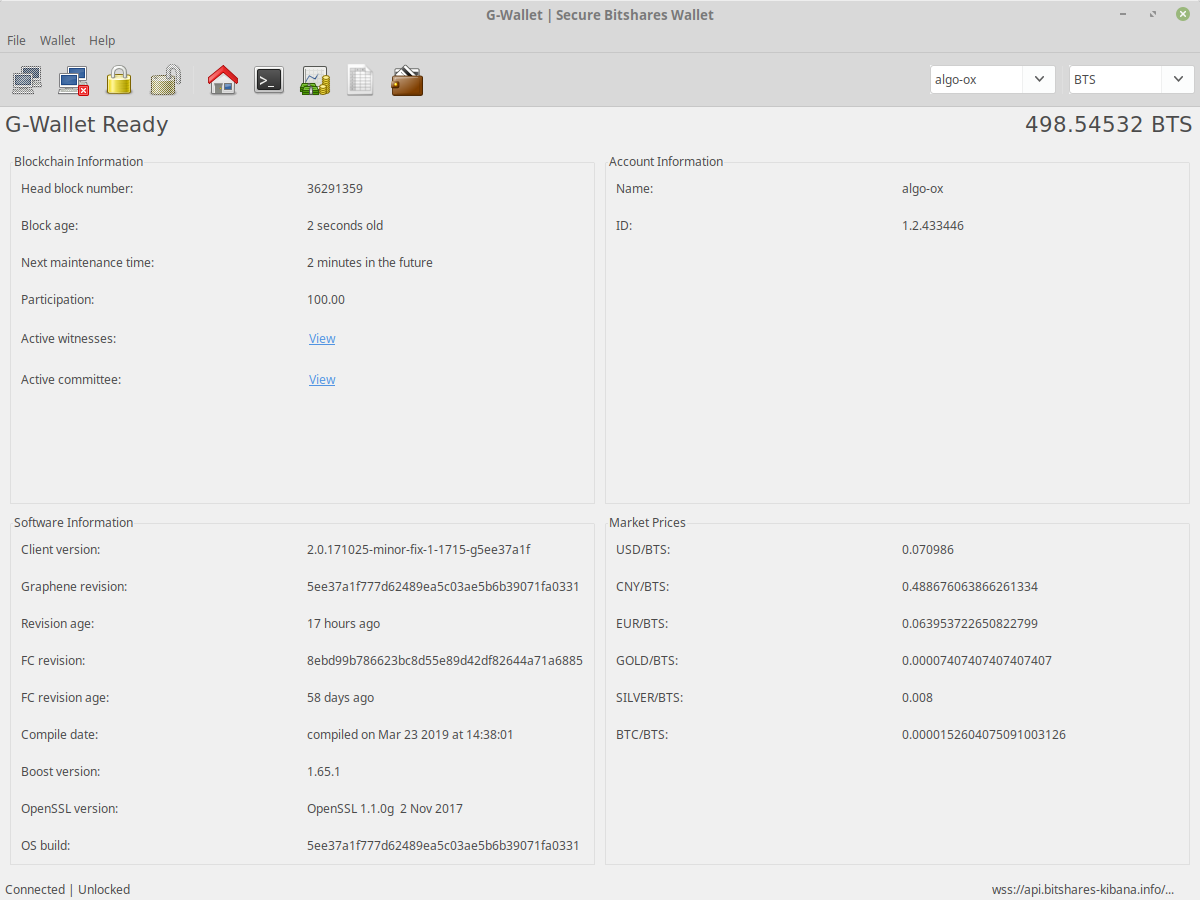
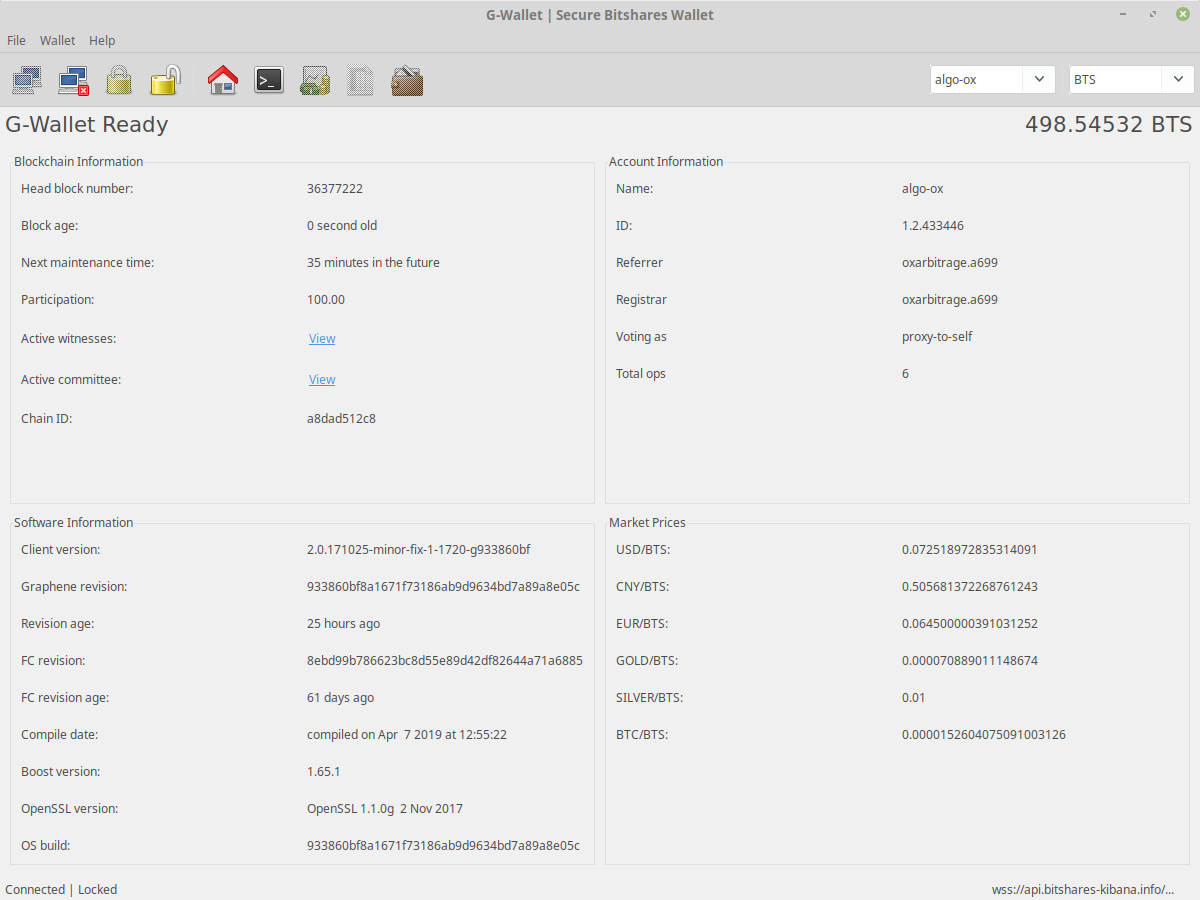
add more stats to home mode

diff --git a/programs/gwallet/modes/home.cpp b/programs/gwallet/modes/home.cpp
@@ -87,6 +87,17 @@ void Home::CreateControls()
          _("View"), wxEmptyString, wxDefaultPosition, wxDefaultSize, wxHL_ALIGN_LEFT );
    itemBoxSizer14->Add(itemHyperlinkCtrl16, 6, wxALIGN_CENTER_VERTICAL|wxALL, 0);
 
+   wxBoxSizer* itemBoxSizer9 = new wxBoxSizer(wxHORIZONTAL);
+   itemStaticBoxSizer3->Add(itemBoxSizer9, 0, wxGROW|wxALL, 5);
+
+   wxStaticText* itemStaticText26 = new wxStaticText( itemStaticBoxSizer3->GetStaticBox(), wxID_STATIC,
+         _("Chain ID:"), wxDefaultPosition, wxDefaultSize, 0 );
+   itemBoxSizer9->Add(itemStaticText26, 6, wxALIGN_CENTER_VERTICAL|wxALL, 5);
+
+   wxStaticText* itemStaticText29 = new wxStaticText( itemStaticBoxSizer3->GetStaticBox(), wxID_STATIC,
+         chain_id_value, wxDefaultPosition, wxDefaultSize, 0 );
+   itemBoxSizer9->Add(itemStaticText29, 6, wxALIGN_CENTER_VERTICAL|wxALL, 5);
+
    wxStaticBox* itemStaticBoxSizer1Static = new wxStaticBox(p_GWallet->panel, wxID_ANY, _("Account Information"));
    wxStaticBoxSizer* itemStaticBoxSizer1 = new wxStaticBoxSizer(itemStaticBoxSizer1Static, wxVERTICAL);
    itemGridSizer2->Add(itemStaticBoxSizer1, 6, wxGROW|wxALIGN_TOP|wxALL, 5);
@@ -112,6 +123,50 @@ void Home::CreateControls()
    account_id = new wxStaticText( itemStaticBoxSizer1->GetStaticBox(), wxID_STATIC,
          account_id_value, wxDefaultPosition, wxDefaultSize, 0 );
    itemBoxSizer12->Add(account_id, 6, wxALIGN_CENTER_VERTICAL|wxALL, 5);
+
+   wxBoxSizer* itemBoxSizer8 = new wxBoxSizer(wxHORIZONTAL);
+   itemStaticBoxSizer1->Add(itemBoxSizer8, 0, wxGROW|wxALL, 5);
+
+   wxStaticText* itemStaticText20 = new wxStaticText( itemStaticBoxSizer1->GetStaticBox(), wxID_STATIC,
+         _("Referrer"), wxDefaultPosition, wxDefaultSize, 0 );
+   itemBoxSizer8->Add(itemStaticText20, 6, wxALIGN_CENTER_VERTICAL|wxALL, 5);
+
+   referrer = new wxStaticText( itemStaticBoxSizer1->GetStaticBox(), wxID_STATIC,
+         referrer_value, wxDefaultPosition, wxDefaultSize, 0 );
+   itemBoxSizer8->Add(referrer, 6, wxALIGN_CENTER_VERTICAL|wxALL, 5);
+
+   wxBoxSizer* itemBoxSizer30 = new wxBoxSizer(wxHORIZONTAL);
+   itemStaticBoxSizer1->Add(itemBoxSizer30, 0, wxGROW|wxALL, 5);
+
+   wxStaticText* itemStaticText32 = new wxStaticText( itemStaticBoxSizer1->GetStaticBox(), wxID_STATIC,
+         _("Registrar"), wxDefaultPosition, wxDefaultSize, 0 );
+   itemBoxSizer30->Add(itemStaticText32, 6, wxALIGN_CENTER_VERTICAL|wxALL, 5);
+
+   registrar = new wxStaticText( itemStaticBoxSizer1->GetStaticBox(), wxID_STATIC,
+         registrar_value, wxDefaultPosition, wxDefaultSize, 0 );
+   itemBoxSizer30->Add(registrar, 6, wxALIGN_CENTER_VERTICAL|wxALL, 5);
+
+   wxBoxSizer* itemBoxSizer36 = new wxBoxSizer(wxHORIZONTAL);
+   itemStaticBoxSizer1->Add(itemBoxSizer36, 0, wxGROW|wxALL, 5);
+
+   wxStaticText* itemStaticText38 = new wxStaticText( itemStaticBoxSizer1->GetStaticBox(), wxID_STATIC,
+         _("Voting as"), wxDefaultPosition, wxDefaultSize, 0 );
+   itemBoxSizer36->Add(itemStaticText38, 6, wxALIGN_CENTER_VERTICAL|wxALL, 5);
+
+   voting_as = new wxStaticText( itemStaticBoxSizer1->GetStaticBox(), wxID_STATIC,
+         voting_as_value, wxDefaultPosition, wxDefaultSize, 0 );
+   itemBoxSizer36->Add(voting_as, 6, wxALIGN_CENTER_VERTICAL|wxALL, 5);
+
+   wxBoxSizer* itemBoxSizer43 = new wxBoxSizer(wxHORIZONTAL);
+   itemStaticBoxSizer1->Add(itemBoxSizer43, 0, wxGROW|wxALL, 5);
+
+   wxStaticText* itemStaticText45 = new wxStaticText( itemStaticBoxSizer1->GetStaticBox(), wxID_STATIC,
+         _("Total ops"), wxDefaultPosition, wxDefaultSize, 0 );
+   itemBoxSizer43->Add(itemStaticText45, 6, wxALIGN_CENTER_VERTICAL|wxALL, 5);
+
+   total_ops = new wxStaticText( itemStaticBoxSizer1->GetStaticBox(), wxID_STATIC,
+         total_ops_value, wxDefaultPosition, wxDefaultSize, 0 );
+   itemBoxSizer43->Add(total_ops, 6, wxALIGN_CENTER_VERTICAL|wxALL, 5);
 
    wxStaticBox* itemStaticBoxSizer2Static = new wxStaticBox(p_GWallet->panel, wxID_ANY, _("Software Information"));
    wxStaticBoxSizer* itemStaticBoxSizer2 = new wxStaticBoxSizer(itemStaticBoxSizer2Static, wxVERTICAL);
@@ -300,56 +355,70 @@ void Home::CreateEvents()
 
 void Home::DoInitialData()
 {
-   auto info = p_GWallet->bitshares.wallet_api_ptr->info();
+   const auto info = p_GWallet->bitshares.wallet_api_ptr->info();
 
    head_block_number_value = fc::json::to_string(info["head_block_num"]);
 
-   auto head_block_age_string = fc::json::to_string(info["head_block_age"]);
+   const auto head_block_age_string = fc::json::to_string(info["head_block_age"]);
    head_block_age_value = head_block_age_string.substr(1, head_block_age_string.length()-2);
 
    auto next_maintenance_time_string = fc::json::to_string(info["next_maintenance_time"]);
    next_maintenance_time_value = next_maintenance_time_string.substr(1, next_maintenance_time_string.length()-2);
 
-   auto participation_string = fc::json::to_string(info["participation"]);
+   const auto participation_string = fc::json::to_string(info["participation"]);
    participation_value = participation_string.substr(1, participation_string.length()-2);
 
-   auto about = p_GWallet->bitshares.wallet_api_ptr->about();
+   const auto chain_id_string = fc::json::to_string(info["chain_id"]);
+   chain_id_value = chain_id_string.substr(chain_id_string.length()-11, 10);
 
-   auto client_version_string = fc::json::to_string(about["client_version"]);
+   const auto about = p_GWallet->bitshares.wallet_api_ptr->about();
+
+   const auto client_version_string = fc::json::to_string(about["client_version"]);
    client_version_value = client_version_string.substr(1, client_version_string.length()-2);
 
-   auto graphene_revision_string = fc::json::to_string(about["graphene_revision"]);
+   const auto graphene_revision_string = fc::json::to_string(about["graphene_revision"]);
    graphene_revision_value = graphene_revision_string.substr(1, graphene_revision_string.length()-2);
 
-   auto graphene_revision_age_string = fc::json::to_string(about["graphene_revision_age"]);
+   const auto graphene_revision_age_string = fc::json::to_string(about["graphene_revision_age"]);
    graphene_revision_age_value = graphene_revision_age_string.substr(1, graphene_revision_age_string.length()-2);
 
-   auto fc_revision_string = fc::json::to_string(about["fc_revision"]);
+   const auto fc_revision_string = fc::json::to_string(about["fc_revision"]);
    fc_revision_value = fc_revision_string.substr(1, fc_revision_string.length()-2);
 
-   auto fc_revision_age_string = fc::json::to_string(about["fc_revision_age"]);
+   const auto fc_revision_age_string = fc::json::to_string(about["fc_revision_age"]);
    fc_revision_age_value = fc_revision_age_string.substr(1, fc_revision_age_string.length()-2);
 
-   auto compile_date_string = fc::json::to_string(about["compile_date"]);
+   const auto compile_date_string = fc::json::to_string(about["compile_date"]);
    compile_date_value = compile_date_string.substr(1, compile_date_string.length()-2);
 
-   auto boost_version_string = fc::json::to_string(about["boost_version"]);
+   const auto boost_version_string = fc::json::to_string(about["boost_version"]);
    boost_version_value = boost_version_string.substr(1, boost_version_string.length()-2);
 
-   auto openssl_version_string = fc::json::to_string(about["openssl_version"]);
+   const auto openssl_version_string = fc::json::to_string(about["openssl_version"]);
    openssl_version_value = openssl_version_string.substr(1, openssl_version_string.length()-2);
 
-   auto build_string = fc::json::to_string(about["graphene_revision"]);
+   const auto build_string = fc::json::to_string(about["graphene_revision"]);
    build_value = build_string.substr(1, build_string.length()-2);
 
    if(!p_GWallet->is_new) {
-
-      auto account = p_GWallet->bitshares.wallet_api_ptr->get_account(p_GWallet->first_account_name);
-
+      const auto account = p_GWallet->bitshares.wallet_api_ptr->get_account(p_GWallet->selected_account.ToStdString());
       account_name_value = account.name;
 
-      auto account_id_string = fc::json::to_string(account.id);
+      const auto account_id_string = fc::json::to_string(account.id);
       account_id_value = account_id_string.substr(1, account_id_string.length() - 2);
+
+      const auto referrer_string = fc::json::to_string(p_GWallet->bitshares.wallet_api_ptr->get_object(account.referrer)["name"]);
+      referrer_value = referrer_string.substr(1, referrer_string.length() - 2);
+
+      const auto registrar_string = fc::json::to_string(p_GWallet->bitshares.wallet_api_ptr->get_object(account.registrar)["name"]);
+      registrar_value = registrar_string.substr(1, registrar_string.length() - 2);
+
+      const auto voting_as_string = fc::json::to_string(p_GWallet->bitshares.wallet_api_ptr->get_object(account.options.voting_account)["name"]);
+      voting_as_value = voting_as_string.substr(1, voting_as_string.length() - 2);
+
+      const auto stats = p_GWallet->bitshares.wallet_api_ptr->get_object(account.statistics);
+
+      total_ops_value = fc::json::to_string(stats["total_ops"]);
    }
    else {
       account_name_value = "MY ACCOUNT";
@@ -376,23 +445,23 @@ void Home::DoTimers()
    */
 }
 
-void Home::OnTimerSlow(wxTimerEvent & event)
+void Home::OnTimerSlow(wxTimerEvent& event)
 {
    wdump(("timer slow!"));
-   auto info = p_GWallet->bitshares.wallet_api_ptr->info();
+   const auto info = p_GWallet->bitshares.wallet_api_ptr->info();
 
-   auto next_maintenance_time_string = fc::json::to_string(info["next_maintenance_time"]);
-   auto participation_string = fc::json::to_string(info["participation"]);
+   const auto next_maintenance_time_string = fc::json::to_string(info["next_maintenance_time"]);
+   const auto participation_string = fc::json::to_string(info["participation"]);
 
    next_maintenance_time->SetLabel(next_maintenance_time_string.substr(1,next_maintenance_time_string.length()-2));
    participation->SetLabel(participation_string.substr(1,participation_string.length()-2));
 
-   auto usd_bts_ticker = p_GWallet->bitshares.database_api->get_ticker("USD", "BTS");
-   auto cny_bts_ticker = p_GWallet->bitshares.database_api->get_ticker("CNY", "BTS");
-   auto eur_bts_ticker = p_GWallet->bitshares.database_api->get_ticker("EUR", "BTS");
-   auto gold_bts_ticker = p_GWallet->bitshares.database_api->get_ticker("GOLD", "BTS");
-   auto silver_bts_ticker = p_GWallet->bitshares.database_api->get_ticker("SILVER", "BTS");
-   auto btc_bts_ticker = p_GWallet->bitshares.database_api->get_ticker("BTC", "BTS");
+   const auto usd_bts_ticker = p_GWallet->bitshares.database_api->get_ticker("USD", "BTS");
+   const auto cny_bts_ticker = p_GWallet->bitshares.database_api->get_ticker("CNY", "BTS");
+   const auto eur_bts_ticker = p_GWallet->bitshares.database_api->get_ticker("EUR", "BTS");
+   const auto gold_bts_ticker = p_GWallet->bitshares.database_api->get_ticker("GOLD", "BTS");
+   const auto silver_bts_ticker = p_GWallet->bitshares.database_api->get_ticker("SILVER", "BTS");
+   const auto btc_bts_ticker = p_GWallet->bitshares.database_api->get_ticker("BTC", "BTS");
 
    usd_bts->SetLabel(usd_bts_ticker.latest);
    cny_bts->SetLabel(cny_bts_ticker.latest);
@@ -402,14 +471,49 @@ void Home::OnTimerSlow(wxTimerEvent & event)
    btc_bts->SetLabel(btc_bts_ticker.latest);
 }
 
-void Home::OnTimerFast(wxTimerEvent & event)
+void Home::OnTimerFast(wxTimerEvent& event)
 {
    wdump(("timer fast!"));
-   auto info = p_GWallet->bitshares.wallet_api_ptr->info();
+   const auto info = p_GWallet->bitshares.wallet_api_ptr->info();
 
-   auto head_block_num_string = fc::json::to_string(info["head_block_num"]);
-   auto head_block_age_string = fc::json::to_string(info["head_block_age"]);
+   const auto head_block_num_string = fc::json::to_string(info["head_block_num"]);
+   const auto head_block_age_string = fc::json::to_string(info["head_block_age"]);
 
    head_block_num->SetLabel(head_block_num_string);
    head_block_age->SetLabel(head_block_age_string.substr(1,head_block_age_string.length()-2));
+}
+
+void Home::DoAccount()
+{
+   const auto info = p_GWallet->bitshares.wallet_api_ptr->info();
+
+   const auto head_block_num_string = fc::json::to_string(info["head_block_num"]);
+   const auto head_block_age_string = fc::json::to_string(info["head_block_age"]);
+
+   head_block_num->SetLabel(head_block_num_string);
+   head_block_age->SetLabel(head_block_age_string.substr(1,head_block_age_string.length()-2));
+
+   const auto account = p_GWallet->bitshares.wallet_api_ptr->get_account(p_GWallet->selected_account.ToStdString());
+   const auto account_id_string = fc::json::to_string(account.id);
+   account_id_value = account_id_string.substr(1, account_id_string.length() - 2);
+
+   const auto referrer_string = fc::json::to_string(p_GWallet->bitshares.wallet_api_ptr->get_object(account.referrer)["name"]);
+   referrer_value = referrer_string.substr(1, referrer_string.length() - 2);
+
+   const auto registrar_string = fc::json::to_string(p_GWallet->bitshares.wallet_api_ptr->get_object(account.registrar)["name"]);
+   registrar_value = registrar_string.substr(1, registrar_string.length() - 2);
+
+   const auto voting_as_string = fc::json::to_string(p_GWallet->bitshares.wallet_api_ptr->get_object(account.options.voting_account)["name"]);
+   voting_as_value = voting_as_string.substr(1, voting_as_string.length() - 2);
+
+   const auto stats = p_GWallet->bitshares.wallet_api_ptr->get_object(account.statistics);
+
+   total_ops_value = fc::json::to_string(stats["total_ops"]);
+
+   account_name->SetLabel(account.name);
+   account_id->SetLabel(account_id_value);
+   referrer->SetLabel(referrer_value);
+   registrar->SetLabel(registrar_value);
+   voting_as->SetLabel(voting_as_value);
+   total_ops->SetLabel(total_ops_value);
 }

diff --git a/programs/gwallet/include/modes/home.hpp b/programs/gwallet/include/modes/home.hpp
@@ -10,25 +10,28 @@ public:
    Home(GWallet* gwallet);
    void CreateControls();
    void CreateEvents();
+   void DoInitialData();
+   void DoAccount();
 
 private:
    void OnTimerSlow(wxTimerEvent& event);
    void OnTimerFast(wxTimerEvent& event);
 
    void DoTimers();
-   void DoInitialData();
 
    GWallet* p_GWallet;
 
    wxStaticText* head_block_num, *head_block_age, *next_maintenance_time, *participation;
-   wxStaticText* account_name, *account_id;
+   wxStaticText* account_name, *account_id, *referrer, *registrar, *voting_as, *total_ops;
    wxStaticText* usd_bts, *cny_bts, *eur_bts, *gold_bts, *silver_bts, *btc_bts;
 
    std::string head_block_number_value, head_block_age_value, next_maintenance_time_value, participation_value;
+   std::string chain_id_value;
    std::string client_version_value, graphene_revision_value, graphene_revision_age_value;
    std::string fc_revision_value, fc_revision_age_value, compile_date_value, boost_version_value;
    std::string openssl_version_value, build_value;
    std::string account_name_value, account_id_value;
+   std::string referrer_value, registrar_value, voting_as_value, total_ops_value;
    std::string usd_bts_ticker, cny_bts_ticker, eur_bts_ticker, gold_bts_ticker, silver_bts_ticker, btc_bts_ticker;
 
    wxTimer m_timer_fast;

diff --git a/programs/gwallet/gwallet.cpp b/programs/gwallet/gwallet.cpp
@@ -284,6 +284,8 @@ void GWallet::OnChangeAccount(wxCommandEvent& WXUNUSED(event))
 
    selected_account = strings_accounts[selected];
    selected_asset = strings_assets[0];
+
+   p_home->DoAccount();
 }
 
 void GWallet::OnChangeAsset(wxCommandEvent& WXUNUSED(event))
@@ -371,6 +373,7 @@ void GWallet::DoModes()
    Home *home = new Home(this);
    home->CreateControls();
    home->CreateEvents();
+   p_home = home;
 
    Cli *cli = new Cli(this);
    cli->CreateControls();
@@ -416,6 +419,8 @@ void GWallet::OnHomeMode(wxCommandEvent& WXUNUSED(event))
 {
    //Home::StartTimer();
    //m_timer.Start(30000);
+   //p_home->DoInitialData();
+
    mainSizer->Show(sizerHomeMode, true, true);
    mainSizer->Hide(sizerCommandMode, true);
    mainSizer->Hide(sizerTransferMode, true);

diff --git a/programs/gwallet/include/gwallet.hpp b/programs/gwallet/include/gwallet.hpp
@@ -13,6 +13,7 @@
 class Wallet;
 class History;
 class SendReceive;
+class Home;
 
 class Welcome2;
 class Welcome3;
@@ -73,6 +74,7 @@ public:
    Wallet* p_wallet;
    History* p_history;
    SendReceive* p_sendreceive;
+   Home* p_home;
 
    wxWizard* wizard;
    wxWizardPageSimple* page1;
